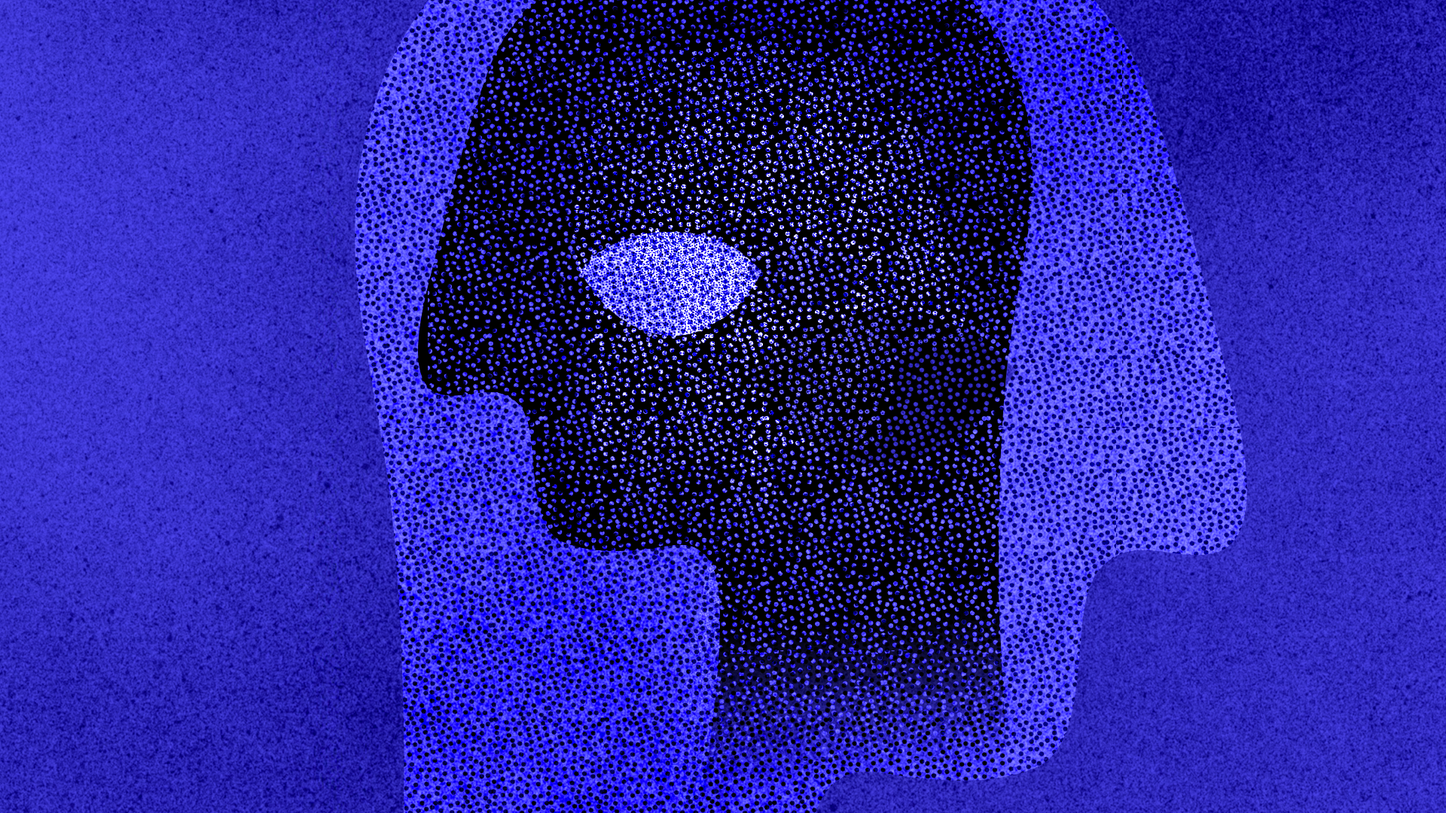
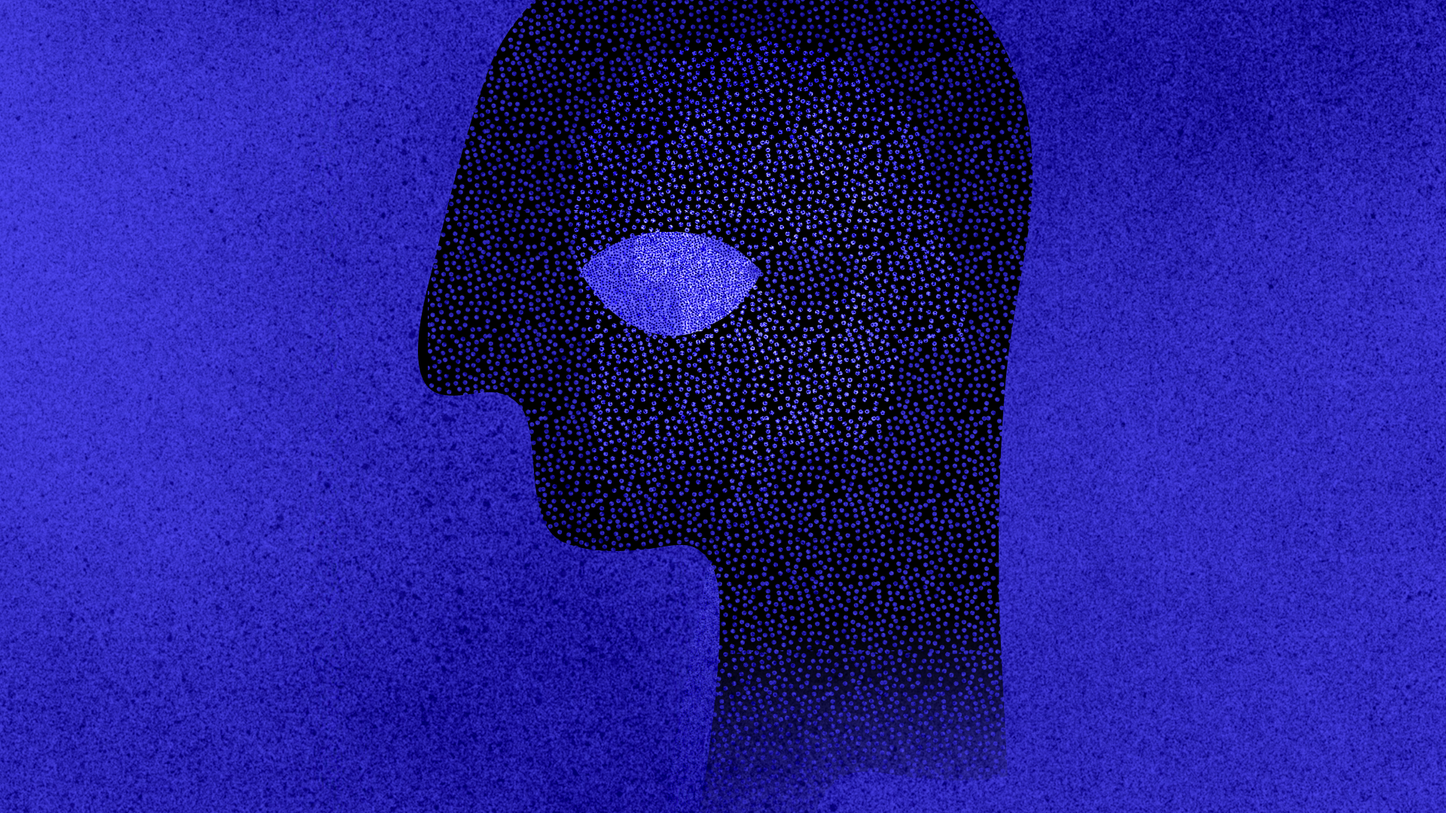
second challenge working without checkpoints detection

diff --git a/src/javascript/components/SecondChallenge.class.js b/src/javascript/components/SecondChallenge.class.js
@@ -13,7 +13,7 @@ class SecondChallenge {
     this.assets = {}
 
     this.background
-    this.sum1
+    this.sum
     this.container = new PIXI.Container()
     this.stepIndex = 0
 
@@ -23,13 +23,13 @@ class SecondChallenge {
 
   init() {
     STORAGE.loaderClass.loadSecondChallengePictures([
+      'assets/second-challenge/step_0.png',
       'assets/second-challenge/step_1.png',
       'assets/second-challenge/step_2.png',
       'assets/second-challenge/step_3.png',
       'assets/second-challenge/step_4.png',
       'assets/second-challenge/step_5.png',
-      'assets/second-challenge/step_6.png',
-      'assets/second-challenge/step_7.png'
+      'assets/second-challenge/step_6.png'
     ])
 
     TweenLite.set(STORAGE.stage, {
@@ -43,15 +43,30 @@ class SecondChallenge {
   setupSecondChallengePicturesLoaded() {
     this.assets.resources = STORAGE.loader.resources
 
-    this.createBackground()
-    this.createSum()
+    this.createBackground(this.stepIndex)
+    this.createSum(this.stepIndex)
     this.createMask()
   }
 
-  createBackground() {
+  createBackground(stepIndex) {
     let that = this
     Object.keys(this.assets.resources).map(function(objectKey, index) {
-      if (index == 0) {
+      if (that.stepIndex == 0 && index == 0) {
+        that.background = new PIXI.Sprite(that.assets.resources[objectKey].texture)
+      }
+      if (that.stepIndex == 1 && index == 1) {
+        that.background = new PIXI.Sprite(that.assets.resources[objectKey].texture)
+      }
+      if (that.stepIndex == 2 && index == 2) {
+        that.background = new PIXI.Sprite(that.assets.resources[objectKey].texture)
+      }
+      if (that.stepIndex == 3 && index == 3) {
+        that.background = new PIXI.Sprite(that.assets.resources[objectKey].texture)
+      }
+      if (that.stepIndex == 4 && index == 4) {
+        that.background = new PIXI.Sprite(that.assets.resources[objectKey].texture)
+      }
+      if (that.stepIndex == 5 && index == 5) {
         that.background = new PIXI.Sprite(that.assets.resources[objectKey].texture)
       }
     })
@@ -70,84 +85,89 @@ class SecondChallenge {
     console.log(this.SecondChallengeContainer)
   }
 
-  createSum() {
+  createSum(stepIndex) {
     let that = this
     this.container.position.x = window.innerWidth / 2
     this.container.position.y = window.innerHeight / 2
 
     Object.keys(this.assets.resources).map(function(objectKey, index) {
-          console.log("sum creation")
-
-      if (index == 1) {
-        that.sum1 = new PIXI.Sprite(that.assets.resources[objectKey].texture)
-        console.log(that.sum1)
+      if (that.stepIndex == 0 && index == 1) {
+        that.sum = new PIXI.Sprite(that.assets.resources[objectKey].texture)
+      }
+      if (that.stepIndex == 1 && index == 2) {
+        that.sum = new PIXI.Sprite(that.assets.resources[objectKey].texture)
+      }
+      if (that.stepIndex == 2 && index == 3) {
+        that.sum = new PIXI.Sprite(that.assets.resources[objectKey].texture)
+      }
+      if (that.stepIndex == 3 && index == 4) {
+        that.sum = new PIXI.Sprite(that.assets.resources[objectKey].texture)
+      }
+      if (that.stepIndex == 4 && index == 5) {
+        that.sum = new PIXI.Sprite(that.assets.resources[objectKey].texture)
+      }
+      if (that.stepIndex == 5 && index == 6) {
+        that.sum = new PIXI.Sprite(that.assets.resources[objectKey].texture)
       }
     })
 
-    this.sum1.anchor.x = 0.5
-    this.sum1.anchor.y = 0.5
+    this.sum.scale = this.background.scale
+    this.sum.x = this.sum.x
+    this.sum.y = this.sum.y
+
+    this.sum.anchor.x = 0.5
+    this.sum.anchor.y = 0.5
     this.SecondChallengeContainer.addChild(this.container)
-    this.container.addChild(this.sum1)
+    this.container.addChild(this.sum)
   }
 
   createMask() {
     this.mask = new PIXI.Graphics()
     this.mask.beginFill(0)
-    this.mask.moveTo(100, 100)
+    this.mask.moveTo(window.innerWidth/2, window.innerHeight/2)
     this.SecondChallengeContainer.addChild(this.mask)
     this.container.mask = this.mask
   }
 
   bind() {
     let that = this
-    this.SecondChallengeContainer.mousedown = function(){
-      that.onMouseDown()
+    this.SecondChallengeContainer.mousedown = function(mouseData){
+      that.onMouseDown(mouseData)
     }
     this.SecondChallengeContainer.mousemove = function(mouseData){
       that.onMouseMove(mouseData)
     }
   }
 
-  onMouseDown() {
+  onMouseDown(mouseData) {
     this.stepIndex++
     console.log(this.stepIndex)
 
     if (this.mask) {
-      TweenLite.to(this.mask, 0, {
-        alpha: 0, onComplete: () => { this.mask.clear(); this.createMask() }
+      TweenLite.to([this.background, this.sum, this.mask], 0, { // augmenter delta pour transi
+        alpha: 0, onComplete: () => { 
+          //this.background.clear()
+          //this.sum.clear()
+          this.createBackground(this.stepIndex)
+          this.createSum(this.stepIndex)
+          this.createMask() 
+          /*TweenLite.to([this.background, this.sum, this.mask], 0.4, {
+            alpha: 1
+          })*/
+        }
       })
     }
-
-    let that = this
-    Object.keys(this.assets.resources).map(function(objectKey, index) {
-      if (that.stepIndex == 1 && index == 2) {
-        that.new_sum = new PIXI.Sprite(that.assets.resources[objectKey].texture)
-      }
-      if (that.stepIndex == 2 && index == 3) {
-        that.new_sum = new PIXI.Sprite(that.assets.resources[objectKey].texture)
-      }
-      if (that.stepIndex == 3 && index == 4) {
-        that.new_sum = new PIXI.Sprite(that.assets.resources[objectKey].texture)
-      }
-      if (that.stepIndex == 4 && index == 5) {
-        that.new_sum = new PIXI.Sprite(that.assets.resources[objectKey].texture)
-      }
-      if (that.stepIndex == 5 && index == 6) {
-        that.new_sum = new PIXI.Sprite(that.assets.resources[objectKey].texture)
-      }
-      if (that.stepIndex > 5) {
-        // phrase de conclu + recompense
-      }
-    })
-    this.new_sum.anchor.x = 0.5
-    this.new_sum.anchor.y = 0.5
-    this.container.addChild(this.new_sum)
   }
 
   onMouseMove(mouseData) {
-    //console.log("over")
-    this.mask.lineStyle(100, 0)
+    // mouseData.data.global.x -= 50
+    // mouseData.data.global.y = 500
+    this.mask.lineStyle(500, 0, 1) // ou lineWidth = window.innerHeight
     this.mask.lineTo(mouseData.data.global.x, mouseData.data.global.y)
+  }
+
+  isWellErased() {
+    
   }
 
 }

diff --git a/src/javascript/components/Renderer.class.js b/src/javascript/components/Renderer.class.js
@@ -1,7 +1,7 @@
 class Renderer {
 
     constructor(options) {
-      this.renderer = new PIXI.WebGLRenderer(window.innerWidth, window.innerHeight, { antialias: true })
+      this.renderer = new PIXI.WebGLRenderer(window.innerWidth, window.innerHeight, { antialias: true, clearBeforeRender: false })
       this.stage = new PIXI.Container()
 
       STORAGE.renderer = this.renderer

diff --git a/src/stylesheet/styles.js b/src/stylesheet/styles.js
@@ -1,4 +1,5 @@
 import styles from './main.scss';
-import firstChallenge from './firstChallenge.scss';
 import menu from './menu.scss';
+import firstChallenge from './firstChallenge.scss';
 import firstRecompense from './firstRecompense.scss';
+import secondChallenge from './secondChallenge.scss';

diff --git a/src/stylesheet/secondChallenge.scss b/src/stylesheet/secondChallenge.scss
@@ -1,0 +1,4 @@
+body {
+    background-color : blue;
+    /*border : solid red;*/
+}
